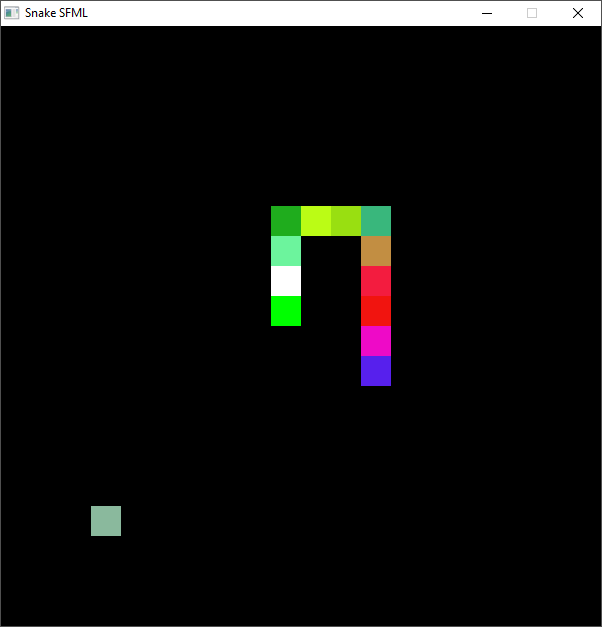
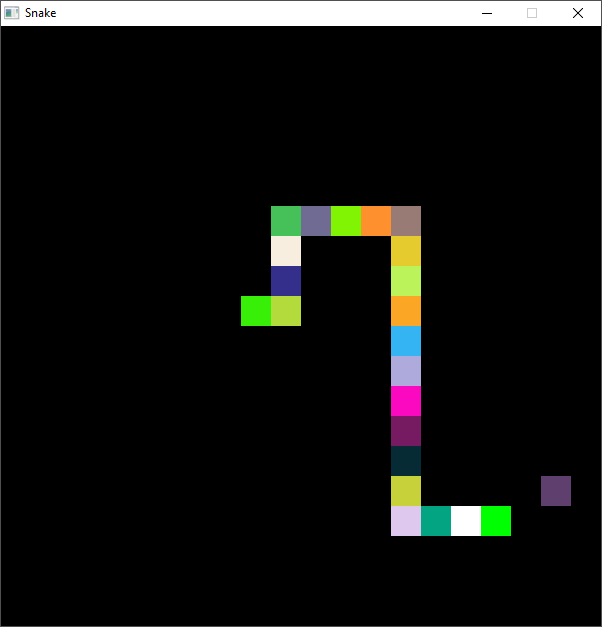
Updated Control Listing and Screenshot

diff --git a/src/GameLoop.cpp b/src/GameLoop.cpp
@@ -9,7 +9,8 @@ int main()
 	srand(time(0));
 
 
-	sf::RenderWindow window({600,600}, "Snake SFML", sf::Style::Close);
+	sf::Vector2u screenSize({600,600});
+	sf::RenderWindow window({screenSize.x, screenSize.y}, "Snake", sf::Style::Close);
 	window.setFramerateLimit(60);
 
 
@@ -17,19 +18,34 @@ int main()
 	sf::Time timePerTick = sf::milliseconds(50);
 
 
-	TM::Map map({600,600}, {15,15});
+	sf::Vector2u tileCount({20,20});
+	TM::Map map(screenSize, tileCount);
 	Snake::Snake snake(map, sf::Color::Green, gameClock, timePerTick);
 	Snake::Fruit fruit(map, sf::Color::White);
 	Snake::Direction direction = Snake::Direction::PAUSE;
 
 
-	bool debugTileDraw = false;
+	bool debugTileDraw  = false;
 	bool debugTileClick = false;
 
 	bool inputAllowed = true;
-	bool gameover = false;
-	bool wrapAround = false;
+	bool gameover     = false;
+	bool wrapAround   = false;
 	bool rainbowSnake = false;
+
+
+	std::cout << "Controls\n"
+				 "WASD: Movement\n"
+				 "Num1: Toggle Rainbow Snake\n"
+				 "Num2: Toggle Wrap-Around\n"
+				 "P   : Pause\n\n\n"
+				 "Debugging Controls\n"
+				 "Backspace: Delete a tail\n"
+				 "F1       : Toggle Tile Drawing\n"
+				 "F2       : Toggle Tile Position w/ L-Click\n\n\n"
+				 "Current Settings\n"
+				 "Window Size: " << screenSize.x << " x " << screenSize.y << "\n"
+				 "Tile Count : " << tileCount.x  << " x " << tileCount.y  << "\n\n" << std::flush;
 
 
 
@@ -184,13 +200,13 @@ int main()
 		/* Handling gameover State */
 		if(gameover)
 		{
-			std::cout << "Died, press enter!" << std::endl;
+			std::cout << "Died, press any key!" << std::endl;
 			do
 			{
 				window.pollEvent(event);
-				if(event.type == sf::Event::KeyPressed)
+				if(event.type == sf::Event::KeyPressed or event.type == sf::Event::Closed)
 					window.close();
-			} while(event.type != sf::Event::KeyPressed);
+			} while(window.isOpen());
 		}
 	}
 

diff --git a/README.md b/README.md
@@ -1,15 +1,24 @@
 # Snake
-A basic snake game that can enable "Rainbow Mode" and "Wrap Around". [REQUIRES SFML 2.4.2]
+A basic snake game that can toggle "Rainbow Mode" and "Wrap Around".
+
+This program uses ``SFML 2.4.2``. The dlls required to run Snake are included in the zipped file.
 
 ![screenshot](https://github.com/ordyHHydro/Snake/blob/master/img/Snake.png "Snake Screenshot")
 
 # Controls
-WASD   : Movement
+WASD: Movement
 
-Num1   : Toggle Rainbow Colors
+Num1: Toggle Rainbow Colors
 
-Num2   : Toggle Wrap-Around
+Num2: Toggle Wrap-Around
 
-F1     : Draw TileMap
+P   : Pause
 
-Backspace : Delete a tail
+
+
+# Debugging Controls
+Backspace: Delete a Tail
+
+F1       : Toggle Tile Drawing
+
+F2       : Toggle Tile Position w/ L-Click
